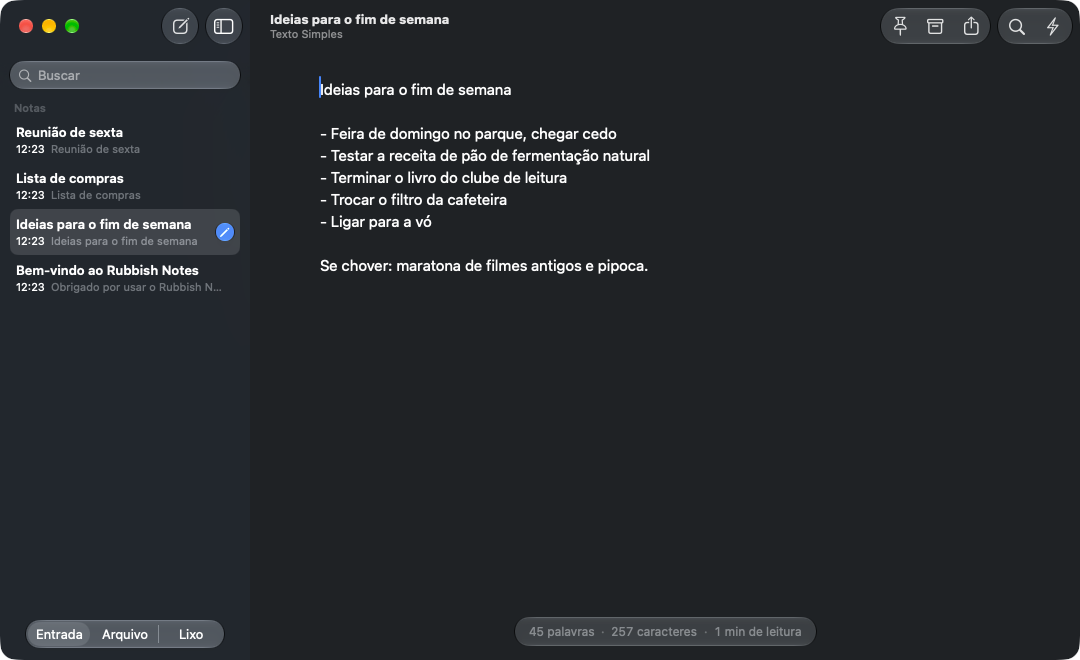
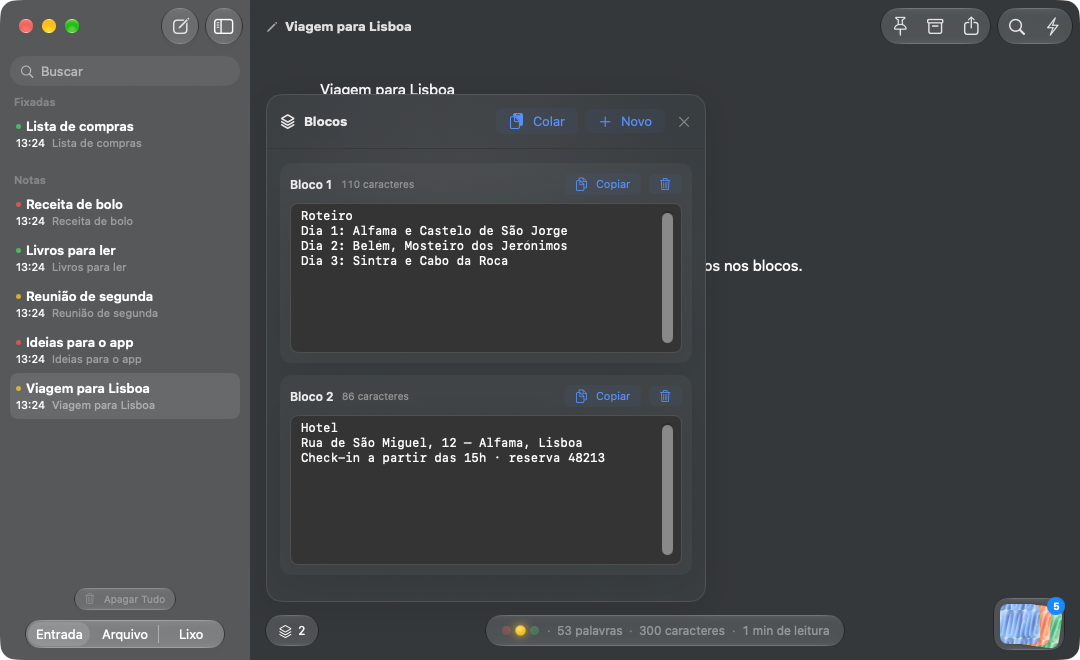
feat: Rubbish Notes 0.6.0, new screenshots and copy (images, blocks, themes)

diff --git a/i18n-strings.js b/i18n-strings.js
@@ -149,14 +149,21 @@ window.WITCH_STRINGS = Object.freeze({
   'NeoRAR em grade dentro de um ZIP com comentário': ['NeoRAR in grid view inside a ZIP with a comment', 'NeoRAR en cuadrícula dentro de un ZIP con comentario'],
 
   'Baixar Rubbish Notes': ['Download Rubbish Notes', 'Descargar Rubbish Notes'],
-  'Rubbish Notes com uma nota aberta': ['Rubbish Notes with a note open', 'Rubbish Notes con una nota abierta'],
+  'Rubbish Notes com uma nota aberta e seus blocos': ['Rubbish Notes with a note and its blocks open', 'Rubbish Notes con una nota y sus bloques abiertos'],
   'Aba de temas do Rubbish Notes com Dracula, Nord, Monokai e outros': ['Rubbish Notes themes tab with Dracula, Nord, Monokai and more', 'Pestaña de temas de Rubbish Notes con Dracula, Nord, Monokai y otros'],
+  'Aba de temas do Rubbish Notes com Papel, Menta, Flor, Meia-noite e outros': ['Rubbish Notes themes tab with Paper, Mint, Blossom, Midnight and more', 'Pestaña de temas de Rubbish Notes con Papel, Menta, Flor, Medianoche y otros'],
+  'Imagens na nota, fora do texto': ['Images in the note, out of the text', 'Imágenes en la nota, fuera del texto'],
+  'Cole ou arraste uma imagem e ela fica num cantinho do rodapé. Um clique abre a galeria em tela cheia.': ['Paste or drop an image and it waits in a corner of the footer. One click opens the full-window gallery.', 'Pega o arrastra una imagen y queda en una esquina del pie. Un clic abre la galería a pantalla completa.'],
+  'Blocos para textos longos': ['Blocks for long texts', 'Bloques para textos largos'],
+  'Roteiros, endereços, trechos para copiar: guarde em blocos separados dos seus rabiscos e copie com um clique.': ['Itineraries, addresses, snippets to copy: keep them in blocks apart from your scribbles and copy with one click.', 'Itinerarios, direcciones, fragmentos para copiar: guárdalos en bloques aparte de tus garabatos y cópialos con un clic.'],
+  'Temas que mudam tudo': ['Themes that change everything', 'Temas que lo cambian todo'],
+  'Papel, Menta, Flor, Meia-noite, Terminal e mais. O tema pinta a janela inteira, com barra lateral de vidro e opacidade ajustável.': ['Paper, Mint, Blossom, Midnight, Terminal and more. The theme colors the whole window, with a glass sidebar and adjustable opacity.', 'Papel, Menta, Flor, Medianoche, Terminal y más. El tema pinta toda la ventana, con barra lateral de cristal y opacidad ajustable.'],
 
   // Rubbish Notes
   'Notas para esvaziar a cabeça': ['Notes to clear your head', 'Notas para vaciar la cabeza'],
   'Escreva e esqueça: tudo é salvo sozinho no seu Mac. Minimalista, com modo foco, temas e notas fixadas.': ['Write it down and let it go: everything saves itself on your Mac. Minimal, with focus mode, themes and pinned notes.', 'Escríbelo y olvídate: todo se guarda solo en tu Mac. Minimalista, con modo foco, temas y notas fijadas.'],
   'Sua mente leve': ['A lighter mind', 'Tu mente ligera'],
-  'Tire as ideias da cabeça e siga em frente. O Rubbish Notes é um bloco de notas minimalista que salva tudo sozinho, no seu Mac, enquanto você digita. Sem botão de salvar, sem conta, sem nuvem: abriu, escreveu, pronto.': ['Get ideas out of your head and move on. Rubbish Notes is a minimal notepad that saves everything on its own, on your Mac, as you type. No save button, no account, no cloud: open it, write, done.', 'Saca las ideas de tu cabeza y sigue adelante. Rubbish Notes es un bloc de notas minimalista que lo guarda todo solo, en tu Mac, mientras escribes. Sin botón de guardar, sin cuenta, sin nube: abres, escribes, listo.'],
+  'Tire as ideias da cabeça e siga em frente. O Rubbish Notes é um bloco de notas minimalista que salva tudo sozinho, no seu Mac, enquanto você digita. Imagens e textos de apoio ficam guardados na própria nota, nos cantos, sem bagunçar o que você está escrevendo.': ['Get ideas out of your head and move on. Rubbish Notes is a minimal notepad that saves everything on its own, on your Mac, as you type. Images and reference texts live in the note itself, tucked in its corners, without cluttering what you are writing.', 'Saca las ideas de tu cabeza y sigue adelante. Rubbish Notes es un bloc de notas minimalista que lo guarda todo solo, en tu Mac, mientras escribes. Las imágenes y los textos de apoyo viven en la propia nota, en sus esquinas, sin desordenar lo que escribes.'],
   'Salva sozinho, sempre': ['Saves itself, always', 'Se guarda solo, siempre'],
   'Cada palavra fica guardada um instante depois que você para de digitar, em arquivos .txt no seu Mac.': ['Every word is stored a moment after you stop typing, in .txt files on your Mac.', 'Cada palabra queda guardada un instante después de que dejas de escribir, en archivos .txt en tu Mac.'],
   'Modo foco': ['Focus mode', 'Modo foco'],

diff --git a/index.html b/index.html
@@ -17,8 +17,8 @@
 <link rel="preconnect" href="https://fonts.googleapis.com">
 <link rel="preconnect" href="https://fonts.gstatic.com" crossorigin>
 <link href="https://fonts.googleapis.com/css2?family=Inter:wght@400;500;600;700;800&display=swap" rel="stylesheet">
-<link rel="stylesheet" href="style.css?v=202610201900">
-<link rel="stylesheet" href="effects.css?v=202610201900">
+<link rel="stylesheet" href="style.css?v=202610201330">
+<link rel="stylesheet" href="effects.css?v=202610201330">
 <link rel="stylesheet" href="gatekeeper.css?v=202610190959">
 </head>
 <body>
@@ -214,12 +214,14 @@
     <article class="feature-row reverse" id="rubbishnotes" data-app="rubbishnotes">
       <div class="feature-text">
         <div class="app-title"><img src="assets/icons/rubbishnotes.png?v=202610190240" alt="" width="56" height="56"><div><p class="eyebrow">Sua mente leve</p><h2>Rubbish Notes</h2></div></div>
-        <p>Tire as ideias da cabeça e siga em frente. O Rubbish Notes é um bloco de notas minimalista que salva tudo sozinho, no seu Mac, enquanto você digita. Sem botão de salvar, sem conta, sem nuvem: abriu, escreveu, pronto.</p>
+        <p>Tire as ideias da cabeça e siga em frente. O Rubbish Notes é um bloco de notas minimalista que salva tudo sozinho, no seu Mac, enquanto você digita. Imagens e textos de apoio ficam guardados na própria nota, nos cantos, sem bagunçar o que você está escrevendo.</p>
         <ul class="bullets">
           <li><b>Salva sozinho, sempre</b> Cada palavra fica guardada um instante depois que você para de digitar, em arquivos .txt no seu Mac.</li>
           <li><b>Modo foco</b> Esconda tudo e fique só com o texto. Nada disputa a sua atenção.</li>
           <li><b>Fixe o que importa, arquive o resto</b> Notas fixadas ficam no topo, o que já passou vai para o Arquivo e tudo se desfaz com ⌘Z.</li>
-          <li><b>Temas para o seu humor</b> Dracula, Nord, Tokyo Night, Monokai e outros, com modo claro e escuro e um ícone vermelho alternativo.</li>
+          <li><b>Imagens na nota, fora do texto</b> Cole ou arraste uma imagem e ela fica num cantinho do rodapé. Um clique abre a galeria em tela cheia.</li>
+          <li><b>Blocos para textos longos</b> Roteiros, endereços, trechos para copiar: guarde em blocos separados dos seus rabiscos e copie com um clique.</li>
+          <li><b>Temas que mudam tudo</b> Papel, Menta, Flor, Meia-noite, Terminal e mais. O tema pinta a janela inteira, com barra lateral de vidro e opacidade ajustável.</li>
           <li><b>Só seu</b> Sem conta, sem nuvem e sem acesso à rede. Suas notas nunca saem do seu Mac.</li>
         </ul>
         <div class="app-cta">
@@ -229,8 +231,8 @@
         </div>
       </div>
       <div class="shots">
-        <button class="shot shot-main" type="button"><img src="assets/shots/rubbish-note.png" alt="Rubbish Notes com uma nota aberta" loading="lazy" width="1080" height="660"></button>
-        <button class="shot shot-sub narrow-shot" type="button"><img src="assets/shots/rubbish-themes.png" alt="Aba de temas do Rubbish Notes com Dracula, Nord, Monokai e outros" loading="lazy" width="500" height="625"></button>
+        <button class="shot shot-main" type="button"><img src="assets/shots/rubbish-note.png?v=202610201330" alt="Rubbish Notes com uma nota aberta e seus blocos" loading="lazy" width="1080" height="660"></button>
+        <button class="shot shot-sub narrow-shot" type="button"><img src="assets/shots/rubbish-themes.png?v=202610201330" alt="Aba de temas do Rubbish Notes com Papel, Menta, Flor, Meia-noite e outros" loading="lazy" width="500" height="625"></button>
       </div>
     </article>
 
@@ -512,11 +514,11 @@
   </div>
 </footer>
 
-<script src="apps.js?v=202610201900"></script>
-<script src="script.js?v=202610201900"></script>
-<script src="i18n-strings.js?v=202610201900"></script>
-<script src="i18n.js?v=202610201900"></script>
-<script src="effects.js?v=202610201900"></script>
+<script src="apps.js?v=202610201330"></script>
+<script src="script.js?v=202610201330"></script>
+<script src="i18n-strings.js?v=202610201330"></script>
+<script src="i18n.js?v=202610201330"></script>
+<script src="effects.js?v=202610201330"></script>
 <script src="gatekeeper.js?v=202610190959"></script>
 </body>
 </html>

diff --git a/apps.js b/apps.js
@@ -6,7 +6,7 @@ window.WITCH_APPS = Object.freeze({
   sirena:       Object.freeze({ repo: 'Sirena',        tag: 'v0.4.0',        file: 'Sirena-0.4.0.dmg',       published: true }),
   macdash:      Object.freeze({ repo: 'MacDash',       tag: 'macdash-1.0.0', file: 'MacDash-1.0.0.dmg',      published: true }),
   neorar:       Object.freeze({ repo: 'Neorar',        tag: 'v1.0.0',        file: 'Neorar-1.0.0.dmg',       published: true }),
-  rubbishnotes: Object.freeze({ repo: 'rubbish-notes', tag: 'v0.5.1',        file: 'RubbishNotes-0.5.1.dmg', published: true }),
+  rubbishnotes: Object.freeze({ repo: 'rubbish-notes', tag: 'v0.6.0',        file: 'RubbishNotes-0.6.0.dmg', published: true }),
   bunnygrid:    Object.freeze({ repo: 'BunnyGrid',     tag: 'v0.1.0',        file: 'BunnyGrid-0.1.0.dmg',    published: true }),
   wormlink:     Object.freeze({ repo: 'Wormlink',      tag: 'v0.1.0',        file: 'Wormlink-0.1.0.dmg',     published: true }),
 });
